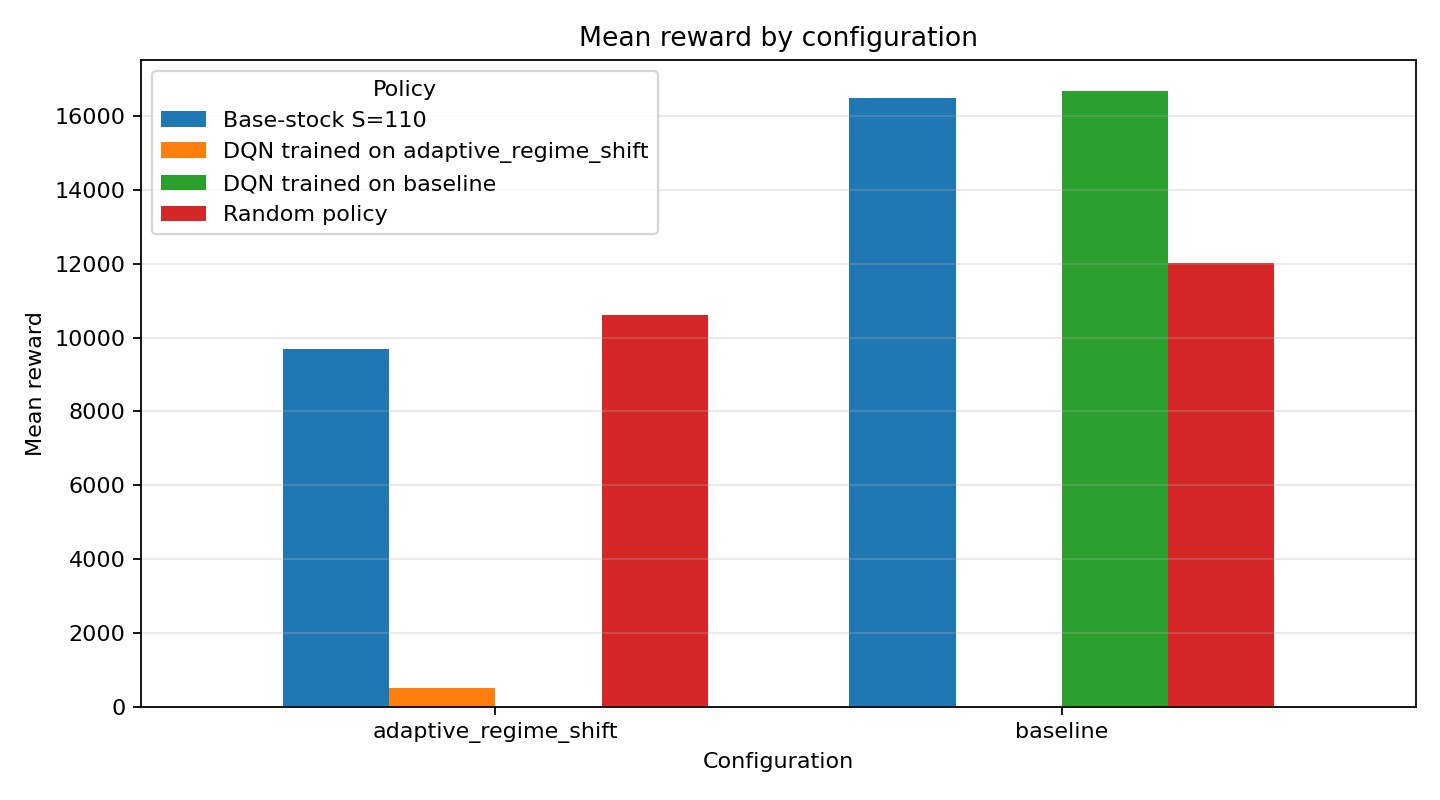
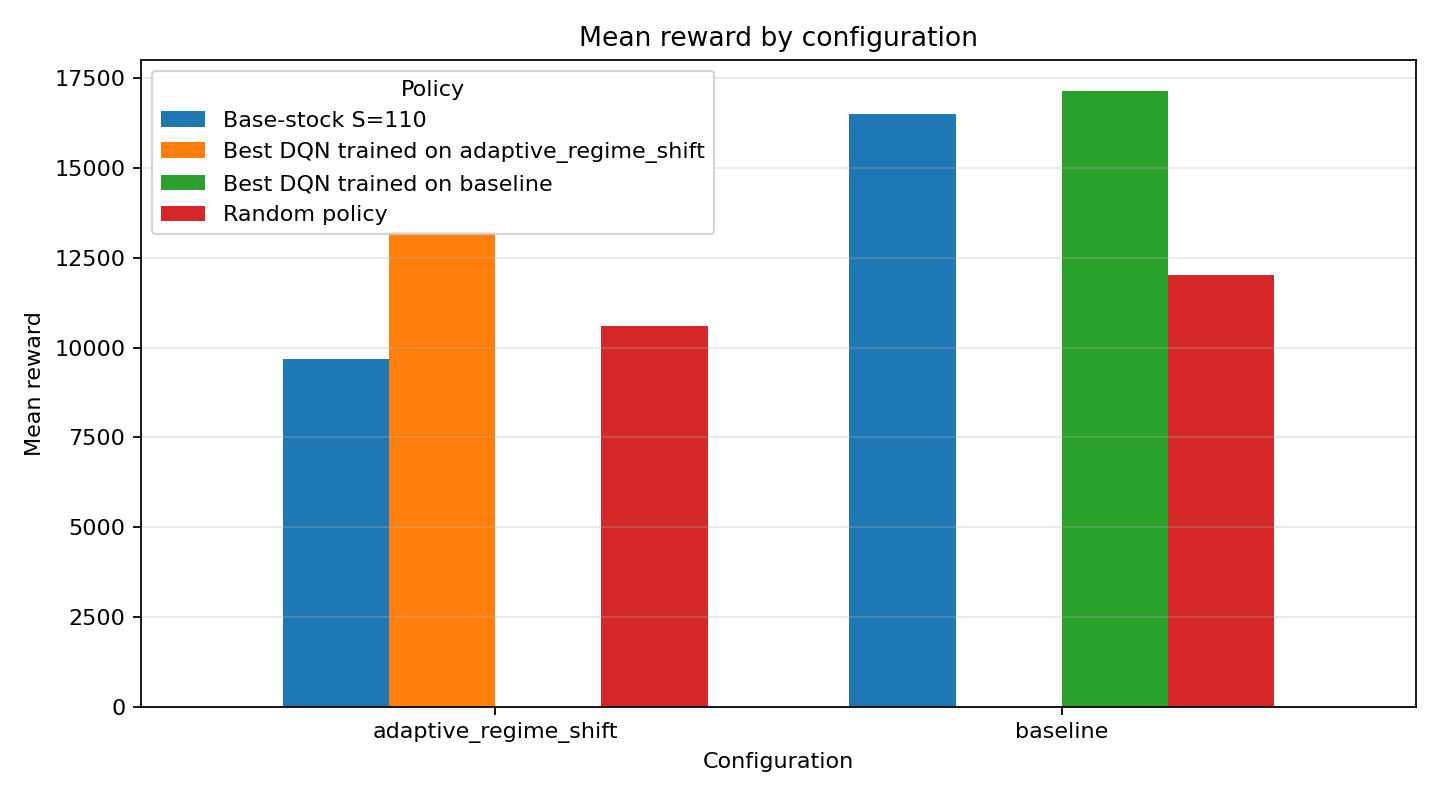
Use best DQN model for report artifacts

diff --git a/generate_report_artifacts.py b/generate_report_artifacts.py
@@ -8,6 +8,7 @@ import matplotlib.pyplot as plt
 import pandas as pd
 from stable_baselines3 import DQN
 
+from config import ENVIRONMENT_CONFIGS
 from inventory_env import InventoryEnv
 
 
@@ -16,8 +17,14 @@ REPORT_CONFIG_NAME = "baseline"
 TRAINING_RUN_DIR = Path("models/training_runs") / REPORT_CONFIG_NAME
 TRAINING_METRICS_PATH = TRAINING_RUN_DIR / "training_metrics.csv"
 INITIAL_MODEL_PATH = str(TRAINING_RUN_DIR / "initial_dqn_inventory")
+BEST_MODEL_PATH = str(TRAINING_RUN_DIR / "best_model" / "best_model")
 FINAL_MODEL_PATH = str(TRAINING_RUN_DIR / "dqn_inventory")
-ORDER_COMPARISON_PATH = ARTIFACT_DIR / "initial_vs_final_orders.csv"
+ORDER_COMPARISON_PATH = ARTIFACT_DIR / "initial_vs_best_orders.csv"
+ORDER_COMPARISON_PLOT_PATH = ARTIFACT_DIR / "initial_vs_best_orders.png"
+
+
+def report_env_config():
+    return ENVIRONMENT_CONFIGS[REPORT_CONFIG_NAME]["env_config"]
 
 
 def plot_training_metrics():
@@ -44,8 +51,28 @@ def plot_training_metrics():
         plt.close()
 
 
+def model_file_exists(model_path):
+    path = Path(model_path)
+    model_file = path if path.suffix == ".zip" else Path(f"{model_path}.zip")
+    return model_file.exists()
+
+
+def load_compatible_model(model_paths):
+    expected_shape = InventoryEnv(**report_env_config()).observation_space.shape
+
+    for model_path in model_paths:
+        if not model_file_exists(model_path):
+            continue
+
+        model = DQN.load(str(model_path))
+        if model.observation_space.shape == expected_shape:
+            return model, str(model_path)
+
+    return None, None
+
+
 def run_model_episode(model, seed):
-    env = InventoryEnv()
+    env = InventoryEnv(**report_env_config())
     observation, info = env.reset(seed=seed)
     rows = []
     done = False
@@ -71,24 +98,17 @@ def run_model_episode(model, seed):
 
 
 def write_order_comparison(seed=123):
-    initial_path = Path(f"{INITIAL_MODEL_PATH}.zip")
-    final_path = Path(f"{FINAL_MODEL_PATH}.zip")
+    initial_model, initial_model_path = load_compatible_model([INITIAL_MODEL_PATH])
+    trained_model, trained_model_path = load_compatible_model([BEST_MODEL_PATH, FINAL_MODEL_PATH])
 
-    if not initial_path.exists() or not final_path.exists():
-        print("Initial or final DQN model is missing. Run `python train_dqn.py` first.")
+    if initial_model is None or trained_model is None:
+        print("Initial or trained DQN model is missing or incompatible. Run `python train_dqn.py` first.")
         return
 
-    initial_model = DQN.load(INITIAL_MODEL_PATH)
-    final_model = DQN.load(FINAL_MODEL_PATH)
-    expected_shape = InventoryEnv().observation_space.shape
-
-    if initial_model.observation_space.shape != expected_shape or final_model.observation_space.shape != expected_shape:
-        print("Initial or final DQN model is incompatible with the current environment.")
-        print("Run `python train_dqn.py` before regenerating the order-comparison artifacts.")
-        return
+    print(f"Comparing {initial_model_path} against {trained_model_path}.")
 
     initial_rows = run_model_episode(initial_model, seed)
-    final_rows = run_model_episode(final_model, seed)
+    trained_rows = run_model_episode(trained_model, seed)
 
     with open(ORDER_COMPARISON_PATH, "w", newline="") as file:
         writer = csv.DictWriter(
@@ -98,31 +118,31 @@ def write_order_comparison(seed=123):
                 "demand",
                 "expected_demand",
                 "initial_order",
-                "final_order",
+                "best_order",
                 "initial_inventory",
-                "final_inventory",
+                "best_inventory",
                 "initial_pending_orders",
-                "final_pending_orders",
+                "best_pending_orders",
                 "initial_unmet_demand",
-                "final_unmet_demand",
+                "best_unmet_demand",
             ],
         )
         writer.writeheader()
 
-        for initial, final in zip(initial_rows, final_rows):
+        for initial, trained in zip(initial_rows, trained_rows):
             writer.writerow(
                 {
                     "step": initial["step"],
                     "demand": initial["demand"],
                     "expected_demand": initial["expected_demand"],
                     "initial_order": initial["order"],
-                    "final_order": final["order"],
+                    "best_order": trained["order"],
                     "initial_inventory": initial["inventory"],
-                    "final_inventory": final["inventory"],
+                    "best_inventory": trained["inventory"],
                     "initial_pending_orders": initial["pending_orders"],
-                    "final_pending_orders": final["pending_orders"],
+                    "best_pending_orders": trained["pending_orders"],
                     "initial_unmet_demand": initial["unmet_demand"],
-                    "final_unmet_demand": final["unmet_demand"],
+                    "best_unmet_demand": trained["unmet_demand"],
                 }
             )
 
@@ -130,14 +150,14 @@ def write_order_comparison(seed=123):
     plt.figure(figsize=(9, 5))
     plt.plot(comparison["step"], comparison["demand"], label="Demand", linewidth=2)
     plt.plot(comparison["step"], comparison["initial_order"], label="Initial policy order", alpha=0.8)
-    plt.plot(comparison["step"], comparison["final_order"], label="Final policy order", alpha=0.8)
+    plt.plot(comparison["step"], comparison["best_order"], label="Best policy order", alpha=0.8)
     plt.title("Order policy before and after training")
     plt.xlabel("Episode step")
     plt.ylabel("Units")
     plt.grid(True, alpha=0.3)
     plt.legend()
     plt.tight_layout()
-    plt.savefig(ARTIFACT_DIR / "initial_vs_final_orders.png", dpi=160)
+    plt.savefig(ORDER_COMPARISON_PLOT_PATH, dpi=160)
     plt.close()
 
 

diff --git a/compare_configurations.py b/compare_configurations.py
@@ -65,8 +65,8 @@ def load_compatible_dqn(config_name, env_config):
         reverse=True,
     )
     candidate_paths = [
-        run_dir / "dqn_inventory",
         run_dir / "best_model" / "best_model",
+        run_dir / "dqn_inventory",
     ] + checkpoint_paths
     expected_shape = InventoryEnv(**env_config).observation_space.shape
 
@@ -152,7 +152,7 @@ def load_policies(config_name, env_config):
     if model is None:
         print(f"No compatible DQN model found for {config_name}. The experiment will use only baseline policies.")
     else:
-        policies.insert(0, (f"DQN trained on {config_name}", dqn_policy(model)))
+        policies.insert(0, (f"Best DQN trained on {config_name}", dqn_policy(model)))
 
     return policies
 
